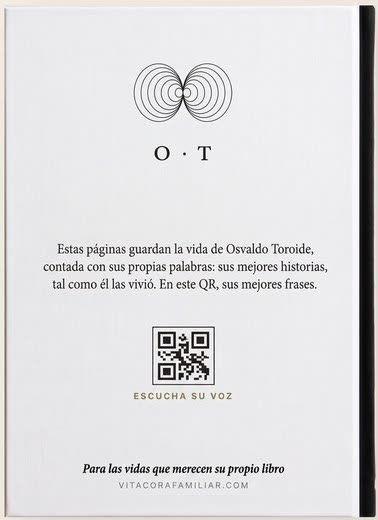
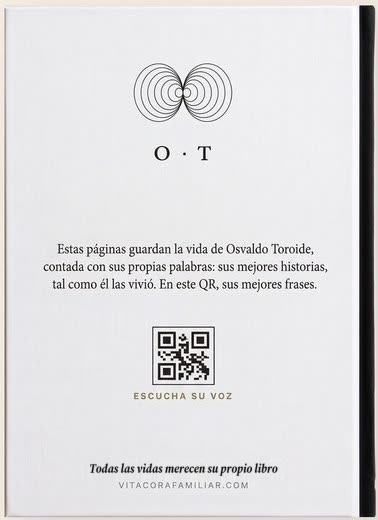
rediseno: pendientes del 16/10 (página de tu viaje, pregunta de viaje, lema y foto de la contratapa)
- «tu panel» que quedaba en Viaje, pedido confirmado, anticipo y legales pasa a
  «la página de tu viaje» / «la página de su historia» / «la página de la historia».
- Pregunta diaria de Viaje sin oración que empiece con «Y» (web y bot, idénticas).
- Lema nuevo en el pie del mail de hitos del bot.
- Foto de la contratapa de Osvaldo con el lema nuevo; original y antes/después en docs.

Changed region(s): [[0.2037, 0.8923, 0.7566, 0.9231]]

diff --git a/web/src/app/_textos/legal.ts b/web/src/app/_textos/legal.ts
@@ -380,7 +380,7 @@ const ES: TextosLegal = {
             ["Quién", "Para qué", "Dónde"],
             [
               ["Supabase", "La base de datos y el almacén de audios, fotos, libros y sus frases en su voz. También el acceso a tu cuenta.", "Unión Europea"],
-              ["Vercel", "Aloja la web que estás leyendo y tu panel.", "Estados Unidos (red global)"],
+              ["Vercel", "Aloja la web que estás leyendo y la página de la historia.", "Estados Unidos (red global)"],
               ["Railway", "Corre el entrevistador (el que manda y recibe los WhatsApp) y la fábrica que produce el libro y elige sus frases.", "Estados Unidos"],
               ["Meta (WhatsApp Business)", "Lleva y trae los mensajes y audios entre el narrador y nosotros. Meta ve los mensajes como los vería en cualquier chat de WhatsApp Business.", "Según las reglas de Meta"],
               ["OpenAI", "Transcribe los audios a texto. Por API: no usa lo que le mandamos para entrenar sus modelos.", "Estados Unidos"],
@@ -445,7 +445,7 @@ const ES: TextosLegal = {
         id: "cookies",
         titulo: "12. Cookies",
         bloques: [
-          p("Usamos solo cookies técnicas, las imprescindibles para que la web funcione: la que mantiene tu sesión abierta cuando entras a tu cuenta, la que recuerda si prefieres el panel en claro o en oscuro y la que recuerda el idioma que eliges en la web. Mientras compras, el navegador guarda en esa pestaña lo que vas rellenando, para no perderlo si vuelves atrás; se borra al cerrarla. No usamos cookies de publicidad ni de analítica, y por eso no te mostramos ningún aviso. Si algún día sumamos una herramienta de medición, te pediremos consentimiento antes de activarla y esta sección cambiará."),
+          p("Usamos solo cookies técnicas, las imprescindibles para que la web funcione: la que mantiene tu sesión abierta cuando entras a tu cuenta, la que recuerda si prefieres la página de la historia en claro o en oscuro y la que recuerda el idioma que eliges en la web. Mientras compras, el navegador guarda en esa pestaña lo que vas rellenando, para no perderlo si vuelves atrás; se borra al cerrarla. No usamos cookies de publicidad ni de analítica, y por eso no te mostramos ningún aviso. Si algún día sumamos una herramienta de medición, te pediremos consentimiento antes de activarla y esta sección cambiará."),
         ],
       },
       {
@@ -767,7 +767,7 @@ const AR: TextosLegal = {
             ["Quién", "Para qué", "Dónde"],
             [
               ["Supabase", "La base de datos y el almacén de audios, fotos, libros y sus frases en su voz. También el acceso a tu cuenta.", "Unión Europea"],
-              ["Vercel", "Aloja la web que estás leyendo y tu panel.", "Estados Unidos (red global)"],
+              ["Vercel", "Aloja la web que estás leyendo y la página de la historia.", "Estados Unidos (red global)"],
               ["Railway", "Corre el entrevistador (el que manda y recibe los WhatsApp) y la fábrica que produce el libro y elige sus frases.", "Estados Unidos"],
               ["Meta (WhatsApp Business)", "Lleva y trae los mensajes y audios entre el narrador y nosotros. Meta ve los mensajes como los vería en cualquier chat de WhatsApp Business.", "Según las reglas de Meta"],
               ["OpenAI", "Transcribe los audios a texto. Por API: no usa lo que le mandamos para entrenar sus modelos.", "Estados Unidos"],
@@ -832,7 +832,7 @@ const AR: TextosLegal = {
         id: "cookies",
         titulo: "12. Cookies",
         bloques: [
-          p("Usamos solo cookies técnicas, las imprescindibles para que la web funcione: la que mantiene tu sesión abierta cuando entrás a tu cuenta, la que recuerda si preferís el panel en claro o en oscuro y la que recuerda el idioma que elegís en la web. Mientras comprás, el navegador guarda en esa pestaña lo que vas completando, para no perderlo si volvés atrás; se borra al cerrarla. No usamos cookies de publicidad ni de analítica, y por eso no te mostramos ningún aviso. Si algún día sumamos una herramienta de medición, te vamos a pedir consentimiento antes de activarla y esta sección va a cambiar."),
+          p("Usamos solo cookies técnicas, las imprescindibles para que la web funcione: la que mantiene tu sesión abierta cuando entrás a tu cuenta, la que recuerda si preferís la página de la historia en claro o en oscuro y la que recuerda el idioma que elegís en la web. Mientras comprás, el navegador guarda en esa pestaña lo que vas completando, para no perderlo si volvés atrás; se borra al cerrarla. No usamos cookies de publicidad ni de analítica, y por eso no te mostramos ningún aviso. Si algún día sumamos una herramienta de medición, te vamos a pedir consentimiento antes de activarla y esta sección va a cambiar."),
         ],
       },
       {
@@ -1154,7 +1154,7 @@ const CA: TextosLegal = {
             ["Qui", "Per a què", "On"],
             [
               ["Supabase", "La base de dades i el magatzem d'àudios, fotos, llibres i les seves frases amb la seva veu. També l'accés al teu compte.", "Unió Europea"],
-              ["Vercel", "Allotja la web que estàs llegint i el teu panell.", "Estats Units (xarxa global)"],
+              ["Vercel", "Allotja la web que estàs llegint i la pàgina de la història.", "Estats Units (xarxa global)"],
               ["Railway", "Executa l'entrevistador (el que envia i rep els WhatsApp) i la fàbrica que produeix el llibre i tria les seves frases.", "Estats Units"],
               ["Meta (WhatsApp Business)", "Porta i duu els missatges i àudios entre el narrador i nosaltres. Meta veu els missatges com els veuria en qualsevol xat de WhatsApp Business.", "Segons les normes de Meta"],
               ["OpenAI", "Transcriu els àudios a text. Per API: no fa servir el que li enviem per entrenar els seus models.", "Estats Units"],
@@ -1219,7 +1219,7 @@ const CA: TextosLegal = {
         id: "cookies",
         titulo: "12. Galetes",
         bloques: [
-          p("Només fem servir galetes tècniques, les imprescindibles perquè la web funcioni: la que manté la teva sessió oberta quan entres al teu compte, la que recorda si prefereixes el panell clar o fosc i la que recorda l'idioma que tries a la web. Mentre compres, el navegador guarda en aquella pestanya el que vas omplint, per no perdre-ho si tornes enrere; s'esborra en tancar-la. No fem servir galetes de publicitat ni d'analítica, i per això no et mostrem cap avís. Si algun dia afegim una eina de mesura, et demanarem el consentiment abans d'activar-la i aquesta secció canviarà."),
+          p("Només fem servir galetes tècniques, les imprescindibles perquè la web funcioni: la que manté la teva sessió oberta quan entres al teu compte, la que recorda si prefereixes la pàgina de la història clara o fosca i la que recorda l'idioma que tries a la web. Mentre compres, el navegador guarda en aquella pestanya el que vas omplint, per no perdre-ho si tornes enrere; s'esborra en tancar-la. No fem servir galetes de publicitat ni d'analítica, i per això no et mostrem cap avís. Si algun dia afegim una eina de mesura, et demanarem el consentiment abans d'activar-la i aquesta secció canviarà."),
         ],
       },
       {

diff --git a/web/src/app/_textos/checkout-viaje.ts b/web/src/app/_textos/checkout-viaje.ts
@@ -133,7 +133,7 @@ export const CHECKOUT_VIAJE: Textos<TextosViaje> = {
     marcoRegaloDetalle: "Para regalar a vuestra familia. Al acercar el móvil se abre el libro del viaje, con vuestra voz.",
 
     viajeTitulo: "El viaje",
-    viajeBajada: "Lo que sepáis hoy. Las etapas que no tengan fecha se completan después desde tu panel, y si aparece una ciudad nueva, se añade ahí.",
+    viajeBajada: "Lo que sepáis hoy. Las etapas que no tengan fecha se completan después desde la página de vuestro viaje, y si aparece una ciudad nueva, se añade ahí.",
     tuNombre: "Tu nombre",
     tuNombrePista: "Nombre y apellidos",
     comoTeDicen: "Cómo te dicen",
@@ -170,11 +170,11 @@ export const CHECKOUT_VIAJE: Textos<TextosViaje> = {
     evitarPista: "Por ejemplo, no preguntar por el trabajo.",
 
     pagoTitulo: "Tus datos y el pago",
-    pagoBajada: "Te mandamos todo a tu correo. Con ese mismo correo entras a tu panel.",
+    pagoBajada: "Te mandamos todo a tu correo. Con ese mismo correo entras a la página de tu viaje.",
     email: "Tu correo",
     emailPista: "nombre@ejemplo.com",
     despues: "Qué pasa después de pagar.",
-    despuesTexto: "te llega un correo para entrar a tu panel, y el biógrafo os escribe por WhatsApp para presentarse. Respondéis SÍ y empieza.",
+    despuesTexto: "te llega un correo para entrar a la página de tu viaje, y el biógrafo os escribe por WhatsApp para presentarse. Respondéis SÍ y empieza.",
     legalAntes: "Pago único y seguro con Stripe. Al pagar aceptas los ",
     legalDespues: ".",
     garantia: "Si el viaje se cancela, te devolvemos el dinero.",
@@ -185,7 +185,7 @@ export const CHECKOUT_VIAJE: Textos<TextosViaje> = {
     faltaWhatsapp: "Falta tu WhatsApp. Ahí os escribe el biógrafo.",
     faltaFechas: "Necesitamos la fecha de salida y la de vuelta.",
     vueltaAntes: "La vuelta no puede ser antes de la salida.",
-    correoMal: "Necesitamos un correo válido. Con ese entras a tu panel.",
+    correoMal: "Necesitamos un correo válido. Con ese entras a la página de tu viaje.",
   },
   ar: {
     tituloPagina: "Vitácora de viaje",
@@ -216,7 +216,7 @@ export const CHECKOUT_VIAJE: Textos<TextosViaje> = {
     marcoRegaloDetalle: "Para regalar a tu familia. Al acercar el celular se abre el libro del viaje, con tu voz.",
 
     viajeTitulo: "El viaje",
-    viajeBajada: "Lo que sepas hoy. Las etapas que no tengan fecha se completan después desde tu panel, y si aparece una ciudad nueva, la agregás ahí.",
+    viajeBajada: "Lo que sepas hoy. Las etapas que no tengan fecha se completan después desde la página de tu viaje, y si aparece una ciudad nueva, la agregás ahí.",
     tuNombre: "Tu nombre",
     tuNombrePista: "Nombre y apellido",
     comoTeDicen: "Cómo te dicen",
@@ -253,11 +253,11 @@ export const CHECKOUT_VIAJE: Textos<TextosViaje> = {
     evitarPista: "Por ejemplo, no preguntar por el trabajo.",
 
     pagoTitulo: "Tus datos y el pago",
-    pagoBajada: "Te mandamos todo a tu correo. Con ese mismo correo entrás a tu panel.",
+    pagoBajada: "Te mandamos todo a tu correo. Con ese mismo correo entrás a la página de tu viaje.",
     email: "Tu correo",
     emailPista: "vos@ejemplo.com",
     despues: "Qué pasa después de pagar.",
-    despuesTexto: "te llega un correo para entrar a tu panel, y el biógrafo te escribe por WhatsApp para presentarse. Respondés SÍ y arranca la primera noche.",
+    despuesTexto: "te llega un correo para entrar a la página de tu viaje, y el biógrafo te escribe por WhatsApp para presentarse. Respondés SÍ y arranca la primera noche.",
     legalAntes: "Pago único y seguro con Mercado Pago. Al pagar aceptás los ",
     legalDespues: ".",
     garantia: "Si el viaje se cancela, te devolvemos el dinero.",
@@ -268,7 +268,7 @@ export const CHECKOUT_VIAJE: Textos<TextosViaje> = {
     faltaWhatsapp: "Falta tu WhatsApp. Ahí te escribe el biógrafo.",
     faltaFechas: "Necesitamos la fecha de salida y la de vuelta.",
     vueltaAntes: "La vuelta no puede ser antes de la salida.",
-    correoMal: "Necesitamos un correo válido. Con ese entrás a tu panel.",
+    correoMal: "Necesitamos un correo válido. Con ese entrás a la página de tu viaje.",
   },
   ca: {
     tituloPagina: "Vitácora de viatge",
@@ -299,7 +299,7 @@ export const CHECKOUT_VIAJE: Textos<TextosViaje> = {
     marcoRegaloDetalle: "Per regalar a la vostra família. Quan hi acosteu el mòbil s'obre el llibre del viatge, amb la vostra veu.",
 
     viajeTitulo: "El viatge",
-    viajeBajada: "El que sapigueu avui. Les etapes sense data es completen després des del teu panell, i si apareix una ciutat nova, s'hi afegeix.",
+    viajeBajada: "El que sapigueu avui. Les etapes sense data es completen després des de la pàgina del vostre viatge, i si apareix una ciutat nova, s'hi afegeix.",
     tuNombre: "El teu nom",
     tuNombrePista: "Nom i cognoms",
     comoTeDicen: "Com et diuen",
@@ -336,11 +336,11 @@ export const CHECKOUT_VIAJE: Textos<TextosViaje> = {
     evitarPista: "Per exemple, no preguntar per la feina.",
 
     pagoTitulo: "Les teves dades i el pagament",
-    pagoBajada: "T'ho enviem tot al teu correu. Amb aquest mateix correu entres al teu panell.",
+    pagoBajada: "T'ho enviem tot al teu correu. Amb aquest mateix correu entres a la pàgina del teu viatge.",
     email: "El teu correu",
     emailPista: "nom@exemple.com",
     despues: "Què passa després de pagar.",
-    despuesTexto: "t'arriba un correu per entrar al teu panell, i el biògraf us escriu per WhatsApp per presentar-se. Responeu SÍ i comença.",
+    despuesTexto: "t'arriba un correu per entrar a la pàgina del teu viatge, i el biògraf us escriu per WhatsApp per presentar-se. Responeu SÍ i comença.",
     legalAntes: "Pagament únic i segur amb Stripe. En pagar acceptes les ",
     legalDespues: ".",
     garantia: "Si el viatge es cancel·la, et retornem els diners.",
@@ -351,6 +351,6 @@ export const CHECKOUT_VIAJE: Textos<TextosViaje> = {
     faltaWhatsapp: "Falta el teu WhatsApp. Allà us escriu el biògraf.",
     faltaFechas: "Necessitem la data de sortida i la de tornada.",
     vueltaAntes: "La tornada no pot ser abans de la sortida.",
-    correoMal: "Necessitem un correu vàlid. Amb aquest entres al teu panell.",
+    correoMal: "Necessitem un correu vàlid. Amb aquest entres a la pàgina del teu viatge.",
   },
 };

diff --git a/web/src/app/_textos/pedido-confirmado.ts b/web/src/app/_textos/pedido-confirmado.ts
@@ -25,7 +25,8 @@ export type TextosConfirmado = {
   viaje: (numero: string | null) => string;
   /** El botón a la página de su historia (o la de tu historia, si el libro es propio). */
   irAlPanel: (propia: boolean) => string;
-  entrarAlPanel: string;
+  /** Sin pedido confirmado no sabemos de quién es: en viaje, la del viajero; si no, neutra. */
+  entrarAlPanel: (viaje: boolean) => string;
   sinContrasenas: string;
   descargarTarjeta: string;
   direccionGuardada: string;
@@ -68,7 +69,7 @@ export const CONFIRMADO: Textos<TextosConfirmado> = {
         ? `Vuestro biógrafo de viaje se presenta por WhatsApp. Para empezar ya, mandadle un «hola» a ${numero}: os contesta y os pide el SÍ.`
         : "Vuestro biógrafo de viaje se presenta por WhatsApp. Cuando os escriba, responded SÍ y empieza.",
     irAlPanel: (propia) => (propia ? "Ir a la página de tu historia" : "Ir a la página de su historia"),
-    entrarAlPanel: "Entrar a mi panel",
+    entrarAlPanel: (viaje) => (viaje ? "Entrar a la página de tu viaje" : "Entrar a la página de la historia"),
     sinContrasenas: "Con tu correo y un código de 6 números. Sin contraseñas.",
     descargarTarjeta: "Descargar la tarjeta de regalo",
     direccionGuardada: "Dirección de envío guardada.",
@@ -110,7 +111,7 @@ export const CONFIRMADO: Textos<TextosConfirmado> = {
         ? `Tu biógrafo de viaje se presenta por WhatsApp. Para arrancar ya, mandale un hola a ${numero}: te contesta y te pide el SÍ.`
         : "Tu biógrafo de viaje se presenta por WhatsApp. Cuando te escriba, respondé SÍ y esa noche llega la primera pregunta.",
     irAlPanel: (propia) => (propia ? "Ir a la página de tu historia" : "Ir a la página de su historia"),
-    entrarAlPanel: "Entrar a mi panel",
+    entrarAlPanel: (viaje) => (viaje ? "Entrar a la página de tu viaje" : "Entrar a la página de la historia"),
     sinContrasenas: "Con tu correo y un código de 6 números. Sin contraseñas.",
     descargarTarjeta: "Descargar la tarjeta de regalo",
     direccionGuardada: "Dirección de envío guardada.",
@@ -151,7 +152,7 @@ export const CONFIRMADO: Textos<TextosConfirmado> = {
         ? `El vostre biògraf de viatge es presenta per WhatsApp. Per començar ja, envieu-li un «hola» a ${numero}: us contesta i us demana el SÍ.`
         : "El vostre biògraf de viatge es presenta per WhatsApp. Quan us escrigui, responeu SÍ i comença.",
     irAlPanel: (propia) => (propia ? "Anar a la pàgina de la teva història" : "Anar a la pàgina de la seva història"),
-    entrarAlPanel: "Entrar al meu panell",
+    entrarAlPanel: (viaje) => (viaje ? "Entrar a la pàgina del teu viatge" : "Entrar a la pàgina de la història"), // ca: PENDIENTE REVISIÓN NATIVA
     sinContrasenas: "Amb el teu correu i un codi de 6 xifres. Sense contrasenyes.",
     descargarTarjeta: "Descarregar la targeta de regal",
     direccionGuardada: "Adreça d'enviament desada.",

diff --git a/web/src/app/_textos/viaje.ts b/web/src/app/_textos/viaje.ts
@@ -92,7 +92,7 @@ export const TEXTOS_VIAJE: Textos<TextosViajePagina> = {
       preguntas: [
         {
           pregunta: "¿Y si todavía no tenemos todas las fechas?",
-          respuesta: "Ponéis lo que sabéis. Las etapas sin fecha se completan después desde tu panel, y si aparece una ciudad nueva, se añade ahí.",
+          respuesta: "Ponéis lo que sabéis. Las etapas sin fecha se completan después desde la página de vuestro viaje, y si aparece una ciudad nueva, se añade ahí.",
         },
         {
           pregunta: "¿Cuántas fotos podemos mandar?",
@@ -156,7 +156,7 @@ export const TEXTOS_VIAJE: Textos<TextosViajePagina> = {
         {
           pregunta: "¿Y si todavía no tengo todas las fechas?",
           respuesta:
-            "Cargás lo que sabés. Las etapas sin fecha se completan después desde tu panel, y si aparece una ciudad nueva la agregás ahí.",
+            "Cargás lo que sabés. Las etapas sin fecha se completan después desde la página de tu viaje, y si aparece una ciudad nueva la agregás ahí.",
         },
         {
           pregunta: "¿Cuántas fotos puedo mandar?",
@@ -225,7 +225,7 @@ export const TEXTOS_VIAJE: Textos<TextosViajePagina> = {
       preguntas: [
         {
           pregunta: "I si encara no tenim totes les dates?",
-          respuesta: "Hi poseu el que sabeu. Les etapes sense data es completen després des del teu panell, i si apareix una ciutat nova, s'hi afegeix.",
+          respuesta: "Hi poseu el que sabeu. Les etapes sense data es completen després des de la pàgina del vostre viatge, i si apareix una ciutat nova, s'hi afegeix.",
         },
         {
           pregunta: "Quantes fotos podem enviar?",

diff --git a/web/test/checkout-3-pasos.test.tsx b/web/test/checkout-3-pasos.test.tsx
@@ -643,11 +643,11 @@ describe("«Pedido confirmado»", () => {
   const pagina = async (params: Record<string, string>) =>
     renderToStaticMarkup(await (Gracias as unknown as (p: { searchParams: Promise<Record<string, string>> }) => Promise<ReactElement>)({ searchParams: Promise.resolve(params) }));
 
-  it("sin sesión: la pantalla de respaldo, en el idioma de la vuelta, con «Entrar a mi panel»", async () => {
+  it("sin sesión: la pantalla de respaldo, en el idioma de la vuelta, con «Entrar a la página de la historia»", async () => {
     const ca = await pagina({ idioma: "ca" });
     expect(ca).toContain('lang="ca-ES"');
     expect(ca).toContain(escapar(CONFIRMADO.ca.tituloGenerico));
-    expect(ca).toContain(escapar(CONFIRMADO.ca.entrarAlPanel));
+    expect(ca).toContain(escapar(CONFIRMADO.ca.entrarAlPanel(false)));
     const ar = await pagina({ idioma: "ar" });
     expect(ar).toContain(escapar("Si no lo ves, mirá en promociones o en spam."));
   });

diff --git a/web/src/app/anticipo/[token]/page.tsx b/web/src/app/anticipo/[token]/page.tsx
@@ -205,9 +205,9 @@ export default async function PaginaAnticipo({
           Va a seguir contando, a su ritmo.
         </h2>
         <p className="mx-auto mt-6 max-w-lg text-[17px] leading-[1.75] text-[#45453C] [font-family:var(--fuente-cuerpo)] font-light">
-          Desde tu panel vas a ver el libro crecer capítulo a capítulo. Cuando
+          Desde la página de su historia vas a ver el libro crecer capítulo a capítulo. Cuando
           esté terminado, te avisamos por correo y {tu ? "lo lees y lo escuchas" : "lo leés y lo escuchás"} desde
-          tu panel: el libro en PDF y sus mejores frases, en su voz.
+          la página de su historia: el libro en PDF y sus mejores frases, en su voz.
         </p>
         <div className="mt-10 flex flex-col items-center gap-3">
           <Link

diff --git a/entrevistador/src/mail/hitos.ts b/entrevistador/src/mail/hitos.ts
@@ -92,7 +92,7 @@ function envoltorio(cuerpo: string, pie = true): string {
 <div style="max-width:560px;margin:0 auto;padding:40px 24px;">
 <p style="font-size:11px;letter-spacing:0.3em;text-transform:uppercase;color:#5F5F55;font-family:Helvetica,Arial,sans-serif;">Vitácora Familiar</p>
 <div style="font-size:17px;line-height:1.6;">${cuerpo}</div>
-${pie ? '<p style="margin-top:40px;font-size:12px;color:#83837A;font-family:Helvetica,Arial,sans-serif;">Para las vidas que merecen su propio libro.</p>\n' : ''}</div></body></html>`;
+${pie ? '<p style="margin-top:40px;font-size:12px;color:#83837A;font-family:Helvetica,Arial,sans-serif;">Todas las vidas merecen su propio libro.</p>\n' : ''}</div></body></html>`;
 }
 
 async function enviar(para: string, asunto: string, html: string): Promise<boolean> {

diff --git a/web/src/lib/viaje.ts b/web/src/lib/viaje.ts
@@ -215,7 +215,7 @@ export function textoBaseDelDia(viaje: Viaje, dia: number): string {
   const angulo = anguloDelDia(viaje, dia);
   if (angulo === "llegada") return `Día ${dia}${donde}: contame el momento en que sentiste que habías llegado.`;
   if (angulo === "despedida") return `Día ${dia}${donde}: te vas. ¿Con qué te quedás? ¿Qué dejás?`;
-  return `Día ${dia}${donde}: contame ${TEXTO_ANGULO[angulo]}. Y mandame la foto de hoy con lo que estaba pasando.`;
+  return `Día ${dia}${donde}: contame ${TEXTO_ANGULO[angulo]}, y mandame la foto de hoy con lo que estaba pasando.`;
 }
 
 /** El guion entero: una pregunta por día. */

diff --git a/entrevistador/src/flujo/viaje.ts b/entrevistador/src/flujo/viaje.ts
@@ -97,7 +97,7 @@ export function textoBaseDelDia(viaje: Viaje, dia: number): string {
   const angulo = anguloDelDia(viaje, dia);
   if (angulo === 'llegada') return `Día ${dia}${donde}: contame el momento en que sentiste que habías llegado.`;
   if (angulo === 'despedida') return `Día ${dia}${donde}: te vas. ¿Con qué te quedás? ¿Qué dejás?`;
-  return `Día ${dia}${donde}: contame ${ANGULOS[angulo]}. Y mandame la foto de hoy con lo que estaba pasando.`;
+  return `Día ${dia}${donde}: contame ${ANGULOS[angulo]}, y mandame la foto de hoy con lo que estaba pasando.`;
 }
 
 /** El guion entero: una pregunta por día. */

diff --git a/web/src/app/comprar/gracias/page.tsx b/web/src/app/comprar/gracias/page.tsx
@@ -134,7 +134,7 @@ export default async function Gracias({ searchParams }: PageProps<"/comprar/grac
           ) : (
             <div className="flex flex-col gap-3">
               <Link href="/entrar" className={clasesBoton("primario", "min-h-14 self-start px-8 text-[16px]")}>
-                {T.entrarAlPanel}
+                {T.entrarAlPanel(esViaje)}
               </Link>
               <p className="text-[13px] text-[var(--texto-oscuro-menor)] [font-family:var(--fuente-micro)]">{T.sinContrasenas}</p>
             </div>

diff --git a/docs/rediseno-2026-10/amigo/cambios-y.md b/docs/rediseno-2026-10/amigo/cambios-y.md
@@ -80,3 +80,56 @@ la teva història» cuando el libro es propio).
   casos (ca también, pendiente de Imma).
 - Marco: con `PRECIO_MARCO` y `PRECIO_MARCO_ADICIONAL` iguales (19 y 19), la fila dice solo
   «+19 €», sin «el primero, los demás». Lo que se cobra no cambió.
+
+## 16/10 — pendientes
+
+Los que quedaron arriba en «No lo toqué» / «Falta», aprobados por Naza. Cambios mínimos.
+
+### 1. «tu panel» que quedó
+
+| Dónde (archivo) | Antes | Después |
+|---|---|---|
+| Checkout de viaje, etapas (`web/src/app/_textos/checkout-viaje.ts`, es) | «…se completan después desde tu panel, y si aparece…» | «…desde la página de vuestro viaje, y si aparece…» (la frase va de vosotros) |
+| Checkout de viaje, pago (es) | «Con ese mismo correo entras a tu panel.» | «…entras a la página de tu viaje.» |
+| Checkout de viaje, después de pagar (es) | «te llega un correo para entrar a tu panel, …» | «…para entrar a la página de tu viaje, …» |
+| Checkout de viaje, correo mal (es) | «Con ese entras a tu panel.» | «Con ese entras a la página de tu viaje.» |
+| Checkout de viaje, etapas / pago / después / correo mal (ar) | «…desde tu panel…», «…entrás a tu panel.», «…para entrar a tu panel, …», «Con ese entrás a tu panel.» | lo mismo con «la página de tu viaje» |
+| Checkout de viaje (ca, pendiente de Imma) | «des del teu panell», «entres al teu panell», «per entrar al teu panell» | «des de la pàgina del vostre viatge» (etapas, de vosaltres), «entres a la pàgina del teu viatge», «per entrar a la pàgina del teu viatge» |
+| /viaje, pregunta de las fechas (`web/src/app/_textos/viaje.ts`) | es «…desde tu panel…» · ar «…desde tu panel…» · ca «…des del teu panell…» | es «…desde la página de vuestro viaje…» · ar «…desde la página de tu viaje…» · ca «…des de la pàgina del vostre viatge…» |
+| Pedido confirmado, botón sin sesión (`web/src/app/_textos/pedido-confirmado.ts` y `comprar/gracias/page.tsx`) | «Entrar a mi panel» / ca «Entrar al meu panell» | si la compra es de viaje «Entrar a la página de tu viaje» (ca «…a la pàgina del teu viatge»); si no, «Entrar a la página de la historia» (ca «…a la pàgina de la història»). Ahí no sabemos de quién es la compra. |
+| Página del anticipo (`web/src/app/anticipo/[token]/page.tsx`) | «Desde tu panel vas a ver el libro crecer…» · «…desde tu panel: el libro en PDF…» | «Desde la página de su historia vas a ver…» · «…desde la página de su historia: el libro en PDF…» |
+| Legal, proveedores (`web/src/app/_textos/legal.ts`, es/ar/ca) | «Aloja la web que estás leyendo y tu panel.» · ca «…i el teu panell.» | «…y la página de la historia.» · ca «…i la pàgina de la història.» |
+| Legal, cookies (es/ar/ca) | «…si prefieres (preferís) el panel en claro o en oscuro…» · ca «…el panell clar o fosc…» | «…la página de la historia en claro o en oscuro…» · ca «…la pàgina de la història clara o fosca…» |
+
+La landing del libro del viaje (`/el-libro-del-viaje`) no decía «panel» en ningún lado. El texto
+de muestra `MailAnticipo` de `web/src/app/maquetas.tsx` («Sus primeros audios ya están en tu
+panel») no se usa en ninguna página y quedó igual.
+
+### 2. Pregunta diaria de Viaje
+
+| Dónde | Antes | Después |
+|---|---|---|
+| `web/src/lib/viaje.ts` y `entrevistador/src/flujo/viaje.ts` (idénticas) | «Día N, en X: contame Y. Y mandame la foto de hoy con lo que estaba pasando.» | «Día N, en X: contame Y, y mandame la foto de hoy con lo que estaba pasando.» |
+
+Queda una igual en el banco de Viaje V2 (`F4` de `banco-es-ES.json`, «…lo que se te vaya
+ocurriendo. Y mándame todas las fotos…», en `entrevistador/src/viaje-v2/nucleo/` y
+`fabrica/src/viaje-v2/`). No era parte del pedido, no la toqué.
+
+### 3. El lema
+
+| Dónde | Antes | Después |
+|---|---|---|
+| Mail de hitos del bot, pie (`entrevistador/src/mail/hitos.ts`) | «Para las vidas que merecen su propio libro.» | «Todas las vidas merecen su propio libro.» |
+
+La contratapa que arma la fábrica (`fabrica/src/libro/plantilla-html.ts`, `TEXTOS_CONTRATAPA`) no
+lleva el lema (dice «Vitácora Familiar · Una colección de vidas contadas» y la descripción), así
+que no hubo nada que cambiar. Fuera de `docs/` no queda ninguna otra aparición del lema viejo
+(salvo la lista de frases prohibidas de `web/test/portada-trato.test.tsx`, que es a propósito).
+
+### 4. Foto de la contratapa
+
+`web/public/rediseno/libro-osvaldo-contraportada.jpg` ahora dice «Todas las vidas merecen su
+propio libro», en la misma línea, centro, tamaño y color (Source Serif 4 itálica bold, la que
+mejor calzaba con la letra impresa). El original quedó en
+`docs/rediseno-2026-10/amigo/fotos/libro-osvaldo-contraportada-original.jpg` y el recorte antes y
+después en `docs/rediseno-2026-10/amigo/fotos/contraportada-antes-despues.png`.
